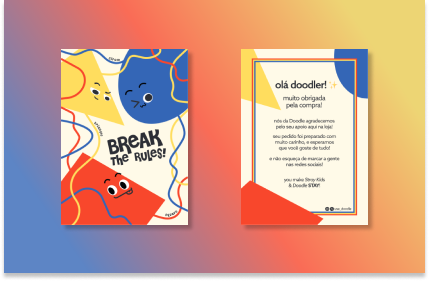
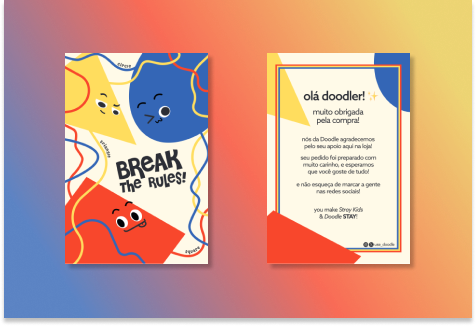
alteração botão

diff --git a/index.html b/index.html
@@ -80,16 +80,37 @@
                         <div class="projeto-content">
                             <h3>Design de produto - Estampa meia</h3>
                             <p>Desenvolvimento de estampa para meia, considerando elementos gráficos da álbum KARMA do grupo sul-coreano Stray Kids.</p>
-                            <a href="" class="projeto-link">Ver projeto →</a>
+                            <button class="btn-abrir" onclick="modal.showModal()">Ver projeto →</button>
+                            <dialog id="modal">
+                                <img src="images/doodle-meia.png" alt="Bandana Doodle">
+                                <button class="btn-fechar" onclick="modal.close()">Fechar</button>
+                            </dialog>
                         </div>
                     </article>
 
                     <article class="projeto-card">
                         <img src="images/thankyou-card.png" alt="Cartão de Agredecimento" class="projeto-image">
                         <div class="projeto-content">
-                            <h3>Conteúdo Gráfico - Redes sociais</h3>
+                            <h3>Conteúdo Gráfico - Peças gráficas</h3>
                             <p>Criação de cartão de agradecimento de acordo com a identidade e necessidade da marca.</p>
-                            <a href="images/thankyou-card.png" class="projeto-link">Ver projeto →</a>
+                            <button class="btn-abrir" onclick="modal.showModal()">Ver projeto →</button>
+                            <dialog id="modal">
+                                <img src="images/thankyou-card.png" alt="Bandana Doodle">
+                                <button class="btn-fechar" onclick="modal.close()">Fechar</button>
+                            </dialog>
+                        </div>
+                    </article>
+
+                    <article class="projeto-card">
+                        <img src="images/doodle-cap.png" alt="Boné" class="projeto-image">
+                        <div class="projeto-content">
+                            <h3>Conteúdo Gráfico - Estampa Boné</h3>
+                            <p>Desenvolvimento de estampa para boné, considerando elementos gráficos da álbum KARMA do grupo sul-coreano Stray Kids.</p>
+                            <button class="btn-abrir" onclick="modal.showModal()">Ver projeto →</button>
+                            <dialog id="modal">
+                                <img src="images/doodle-cap.png" alt="Bandana Doodle">
+                                <button class="btn-fechar" onclick="modal.close()">Fechar</button>
+                            </dialog>
                         </div>
                     </article>
                 </div>

diff --git a/css/index.css b/css/index.css
@@ -352,8 +352,12 @@ footer {
 /* BOTAO - POP-UP
 /* Estilo do botão que abre o popup */
 .btn-abrir {
-    padding: 10px 20px;
-    cursor: pointer;
+    display: inline-block;
+    color: #8b5cf6;
+    text-decoration: none;
+    font-weight: 600;
+    font-size: 0.9rem;
+    transition: color 0.3s;
 }
 
 /* Estilo da janela Dialog (Popup) */
@@ -371,7 +375,7 @@ dialog::backdrop {
 
 /* Estilo da Imagem dentro do modal */
 dialog img {
-    max-width: 100%;
+    max-width: 60%;
     height: auto;
 }
 